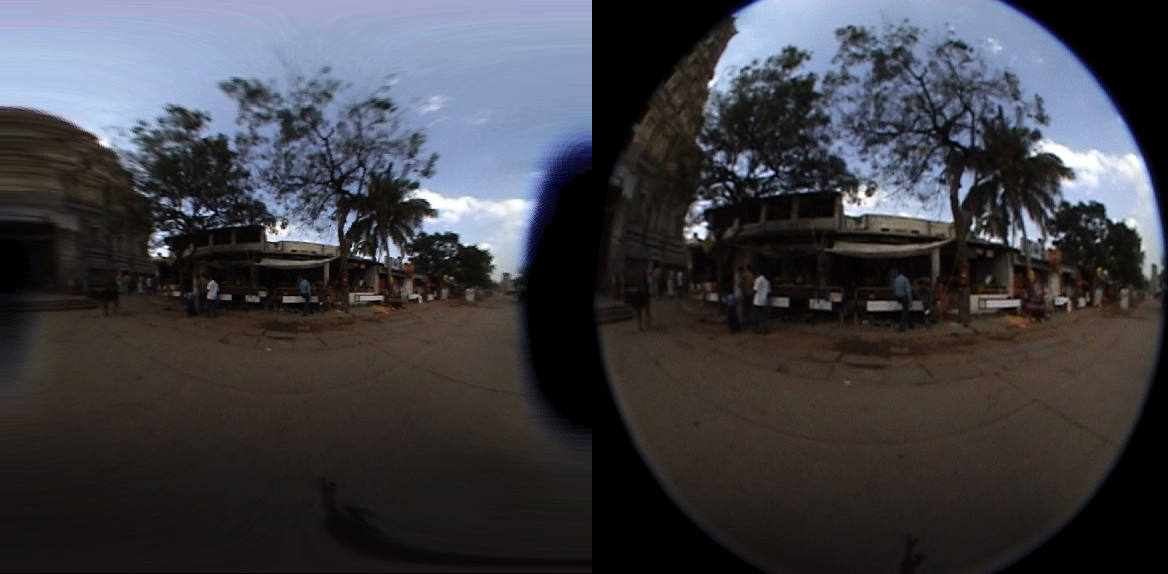
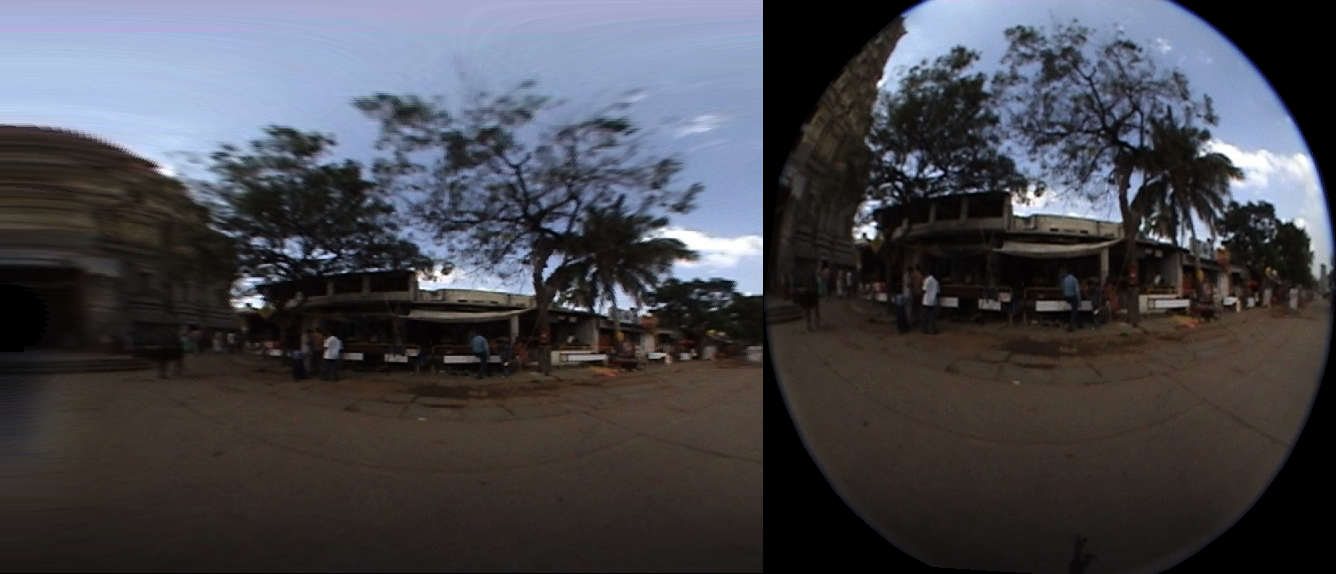
some tweaking, now to stitch

diff --git a/fisheye/defish.py b/fisheye/defish.py
@@ -8,7 +8,7 @@ def spliceImg(img):
     retVal = []
     for i in range(0,4):
         temp = img.crop(section*i,0,section,img.height)
-        mask = temp.threshold(10)
+        mask = temp.threshold(20)
         b = temp.findBlobsFromMask(mask)
         retVal.append(b[-1].hullImage())
     return retVal
@@ -16,13 +16,15 @@ def spliceImg(img):
 def buildMap(Ws,Hs,Wd,Hd):
     map_x = np.zeros((Hd,Wd),np.float32)
     map_y = np.zeros((Hd,Wd),np.float32)
-    fov = 1.0*np.pi
+    vfov = (150.0/180.0)*np.pi
+    hfov = (150.0/180.0)*np.pi
+
     count = 0
     for y in range(0,int(Hd-1)):
         for x in range(0,int(Wd-1)):
             count = count + 1
-            phi = fov*((float(x)/float(Wd)))
-            theta = fov*((float(y)/float(Hd)))
+            phi = vfov*((float(x)/float(Wd)))
+            theta = hfov*((float(y)/float(Hd)))
             yp = (np.sin(theta)*np.sin(phi)+1.0)/2.0#
             xp = (np.sin(theta)*np.cos(phi)+1.0)/2.0
             zp = (np.cos(theta)+1.0)/2.0# 
@@ -45,7 +47,7 @@ temp = sections[0]
 
 Ws = temp.width
 Hs = temp.height
-Wd = temp.width
+Wd = temp.width*(4.0/3.0)
 Hd = temp.height
 print "BUILDING MAP"
 mapx,mapy = buildMap(Ws,Hs,Wd,Hd)
@@ -54,6 +56,7 @@ defished = []
 
 for s,idx  in zip(sections,range(0,len(sections))):
     result = unwarp(s,mapx,mapy)
+    result = result
     temp = result.sideBySide(s)
     temp.save("View{0}.png".format(idx))
     result.save("DeWarp{0}.png".format(idx))
